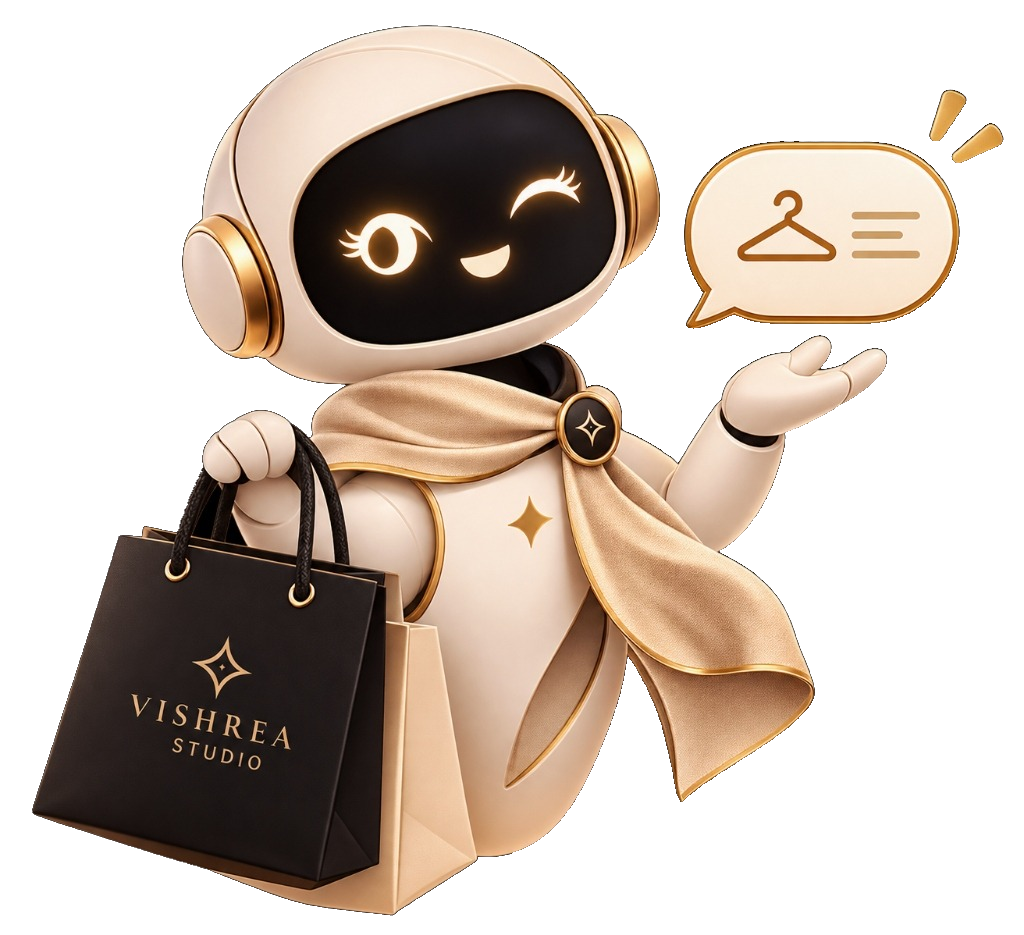
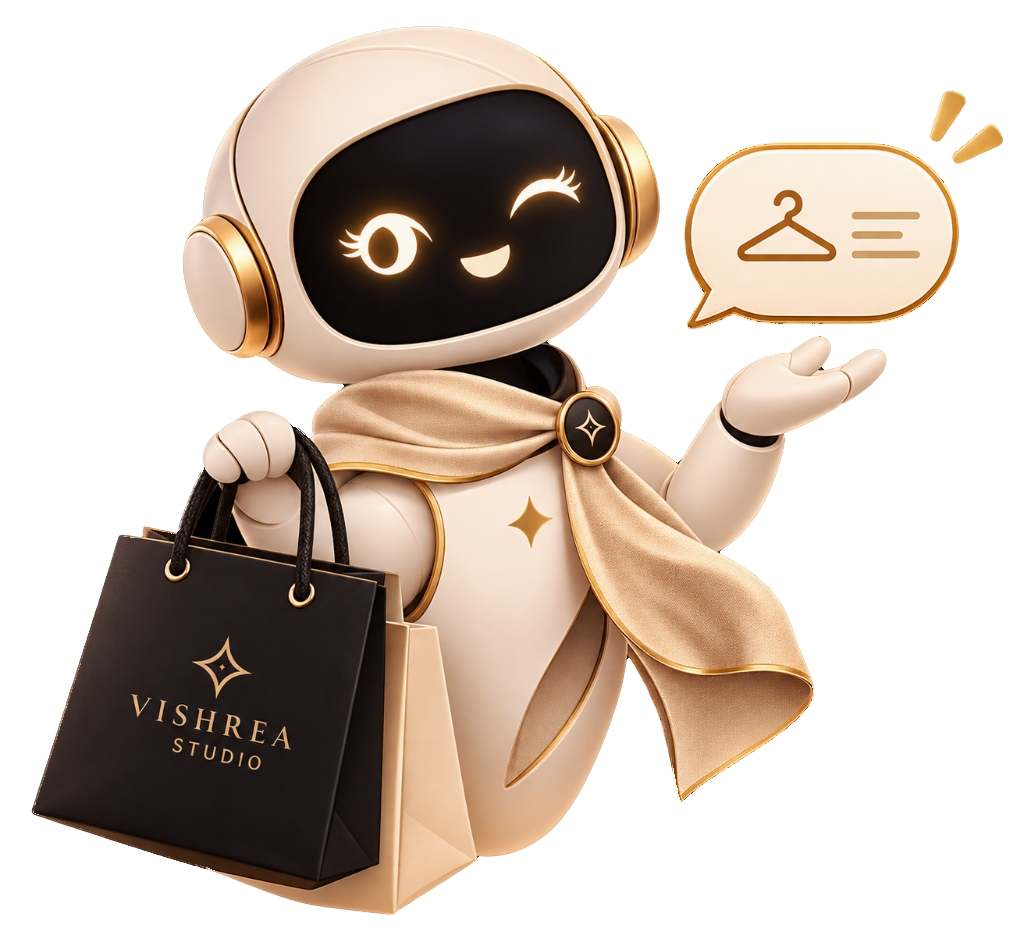
fix(concierge): regenerate ultra high-resolution anti-aliased character PNG without black halo fringing

diff --git a/vishrea-react/src/components/StyleAssistant.jsx b/vishrea-react/src/components/StyleAssistant.jsx
@@ -167,7 +167,15 @@ export function StyleAssistant() {
           <img
             src="/assets/chatbot-icon.png"
             alt="Vishrea Style Concierge"
-            style={{ width: '100%', height: '100%', objectFit: 'contain', pointerEvents: 'none' }}
+            style={{
+              width: '100%',
+              height: '100%',
+              objectFit: 'contain',
+              pointerEvents: 'none',
+              imageRendering: 'high-quality',
+              WebkitBackfaceVisibility: 'hidden',
+              filter: 'drop-shadow(0 6px 16px rgba(0, 0, 0, 0.18))',
+            }}
           />
         </button>
       )}
